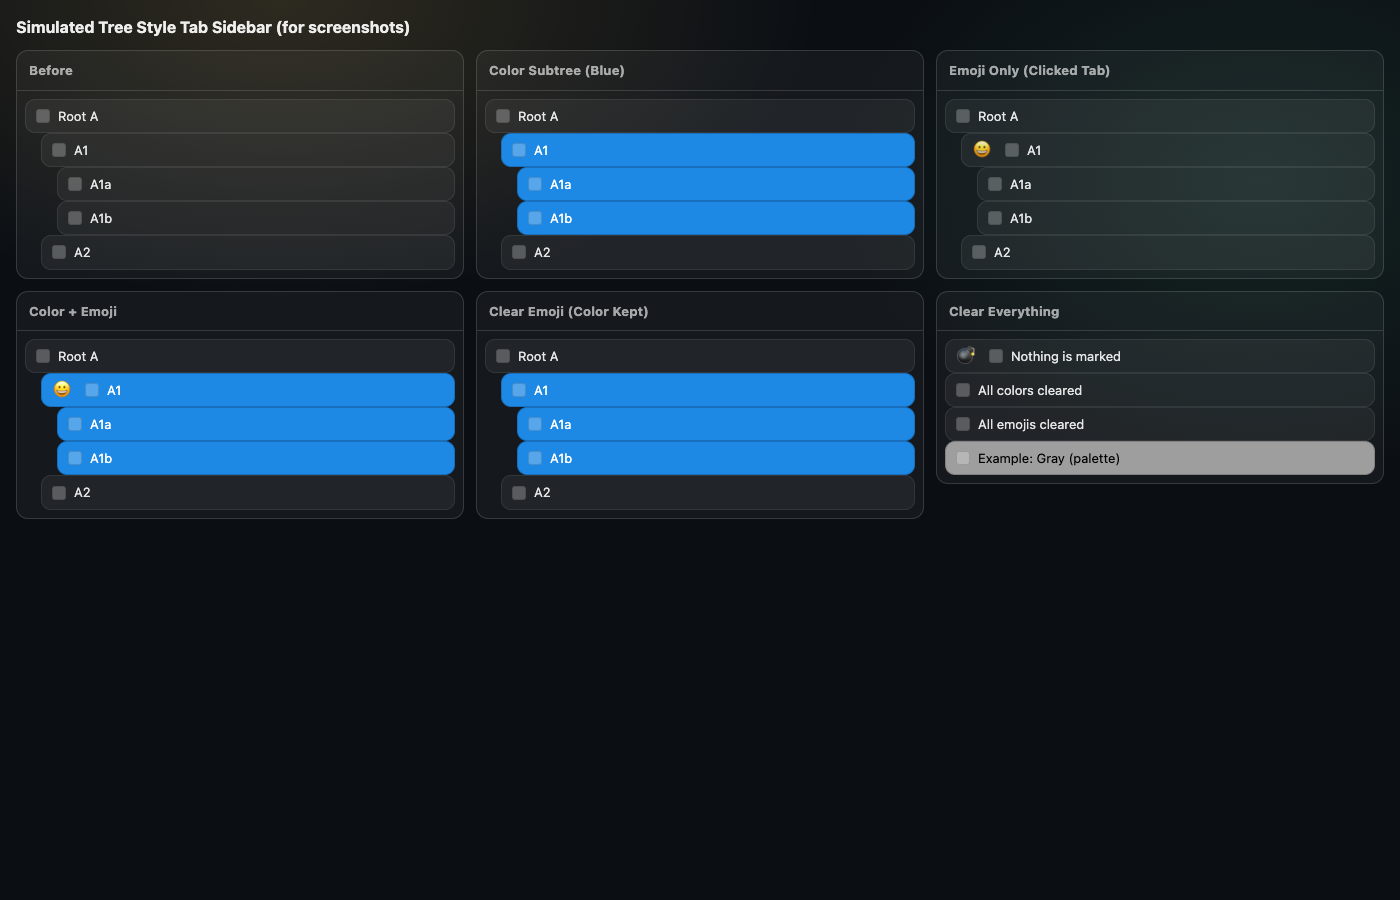
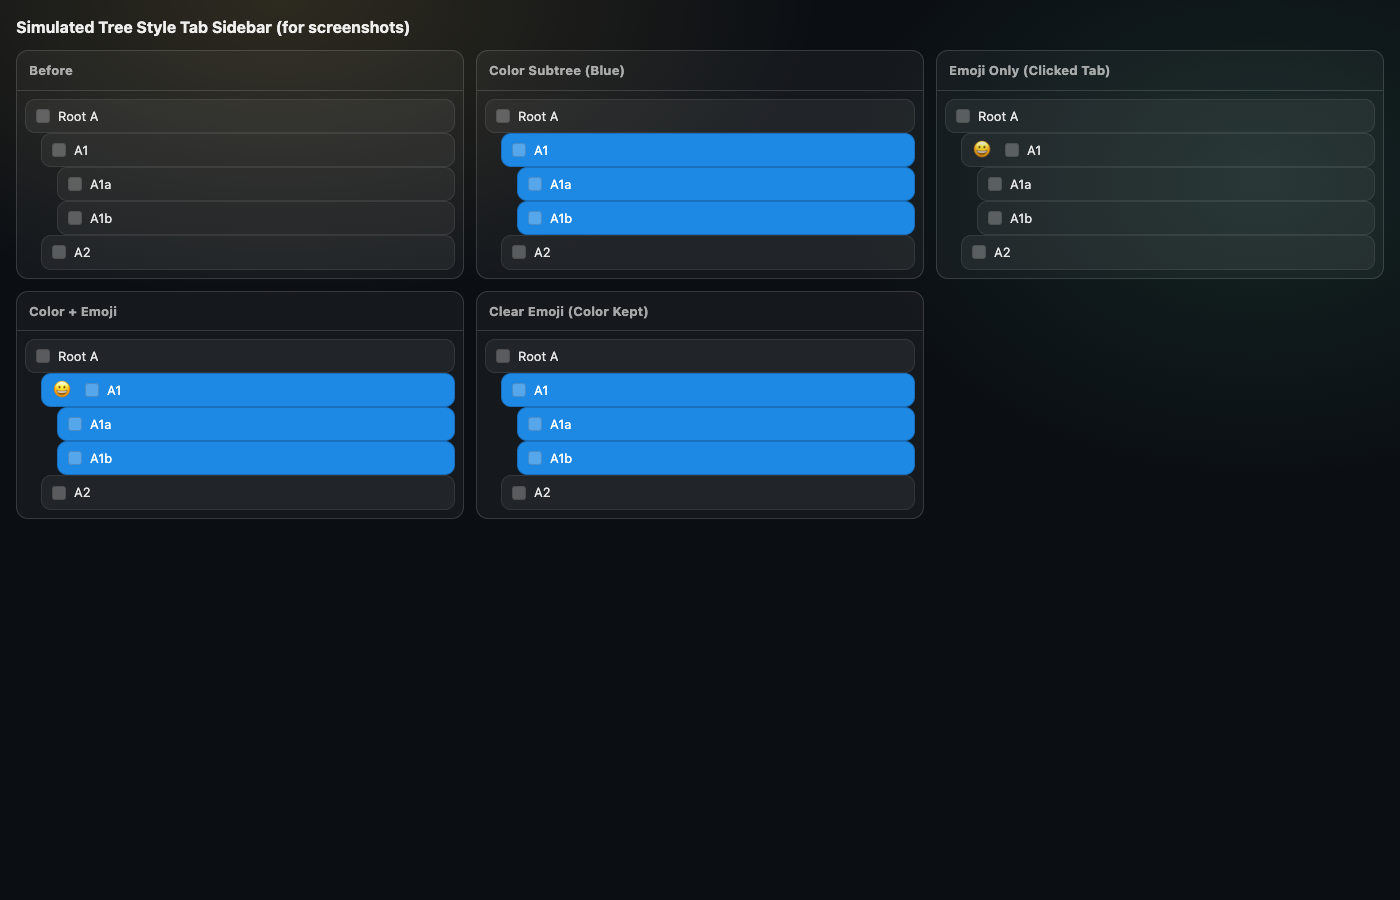
docs: remove publishing info + refresh screenshots

Changed region(s): [[0.6757, 0.3422, 0.9829, 0.5289]]

diff --git a/docs/tst_sidebar_demo.html b/docs/tst_sidebar_demo.html
@@ -164,17 +164,6 @@
           <tab-item class="indent-1"><tab-item-substance><span class="favicon"></span><span class="title">A2</span></tab-item-substance></tab-item>
         </div>
       </section>
-
-      <section class="card">
-        <h2>Clear Everything</h2>
-        <div class="pane">
-          <tab-item data-tab-id="102"><tab-item-substance><span class="favicon"></span><span class="title">Nothing is marked</span></tab-item-substance></tab-item>
-          <tab-item><tab-item-substance><span class="favicon"></span><span class="title">All colors cleared</span></tab-item-substance></tab-item>
-          <tab-item><tab-item-substance><span class="favicon"></span><span class="title">All emojis cleared</span></tab-item-substance></tab-item>
-          <tab-item class="tabs-color-color-19"><tab-item-substance><span class="favicon"></span><span class="title">Example: Gray (palette)</span></tab-item-substance></tab-item>
-        </div>
-      </section>
     </div>
   </body>
 </html>
-

diff --git a/README.md b/README.md
@@ -51,7 +51,7 @@ Notes:
 - The menu is added to the normal Firefox tab context menu; Tree Style Tab typically mirrors those items into its own sidebar tab context menu.
 - Emoji markers are shown **only on the clicked tab** (not its descendants).
 - Use `Clear Emoji`, `Clear Color`, or `Clear Both` in the root menu.
-- `💣 Clear everything` clears all emoji+color markers from all tabs (and resets emoji Recent/Frequent history).
+- `💣 Clear everything` clears all emoji+color markers from all tabs.
 - Use `Add Emoji...` to open the picker with **all emoji** (iPhone-ish categories + search).
 
 ## Screenshots
@@ -84,7 +84,7 @@ Simulated Tree Style Tab sidebar (colors + emoji marker rendering):
 
 ## Build Artifact
 
-This builds an unsigned ZIP artifact (Firefox accepts ZIP-as-XPI for temporary loading; for normal installation on stable Firefox you typically need signing via AMO).
+This builds an unsigned ZIP artifact (Firefox accepts ZIP-as-XPI for temporary loading).
 
 ```sh
 make deps
@@ -93,43 +93,6 @@ make build
 ```
 
 Output will be in `dist/` (generated by `web-ext build`).
-
-## Publish To AMO (Firefox Add-ons Store)
-
-There are two distribution modes on AMO:
-
-- **Unlisted**: AMO signs it, you distribute the XPI yourself (good for personal/team use).
-- **Listed**: appears on `addons.mozilla.org` search/browse and goes through full review.
-
-### Option A: Upload via the AMO Developer Hub (simplest)
-
-1. Create a developer account at `addons.mozilla.org` (Developer Hub).
-2. Choose **Submit a New Add-on**.
-3. Pick **Listed** (store) or **Unlisted** (self-distribute).
-4. Upload the ZIP from `dist/` or upload the source directory package created by `web-ext build`.
-5. Fill in listing details, permissions justification, and (if requested) privacy/data-collection disclosures.
-6. Submit for review (listed). Once approved, AMO will sign and publish it.
-
-### Option B: Sign from CLI (web-ext sign)
-
-1. Create AMO API credentials (JWT issuer/secret) in the Developer Hub.
-2. Export env vars:
-
-```sh
-export AMO_JWT_ISSUER="..."
-export AMO_JWT_SECRET="..."
-```
-
-3. Sign:
-
-```sh
-make deps
-make sign-unlisted
-# or:
-make sign-listed
-```
-
-The signed `.xpi` will be written under `dist/`.
 
 ## Run (with web-ext)
 
